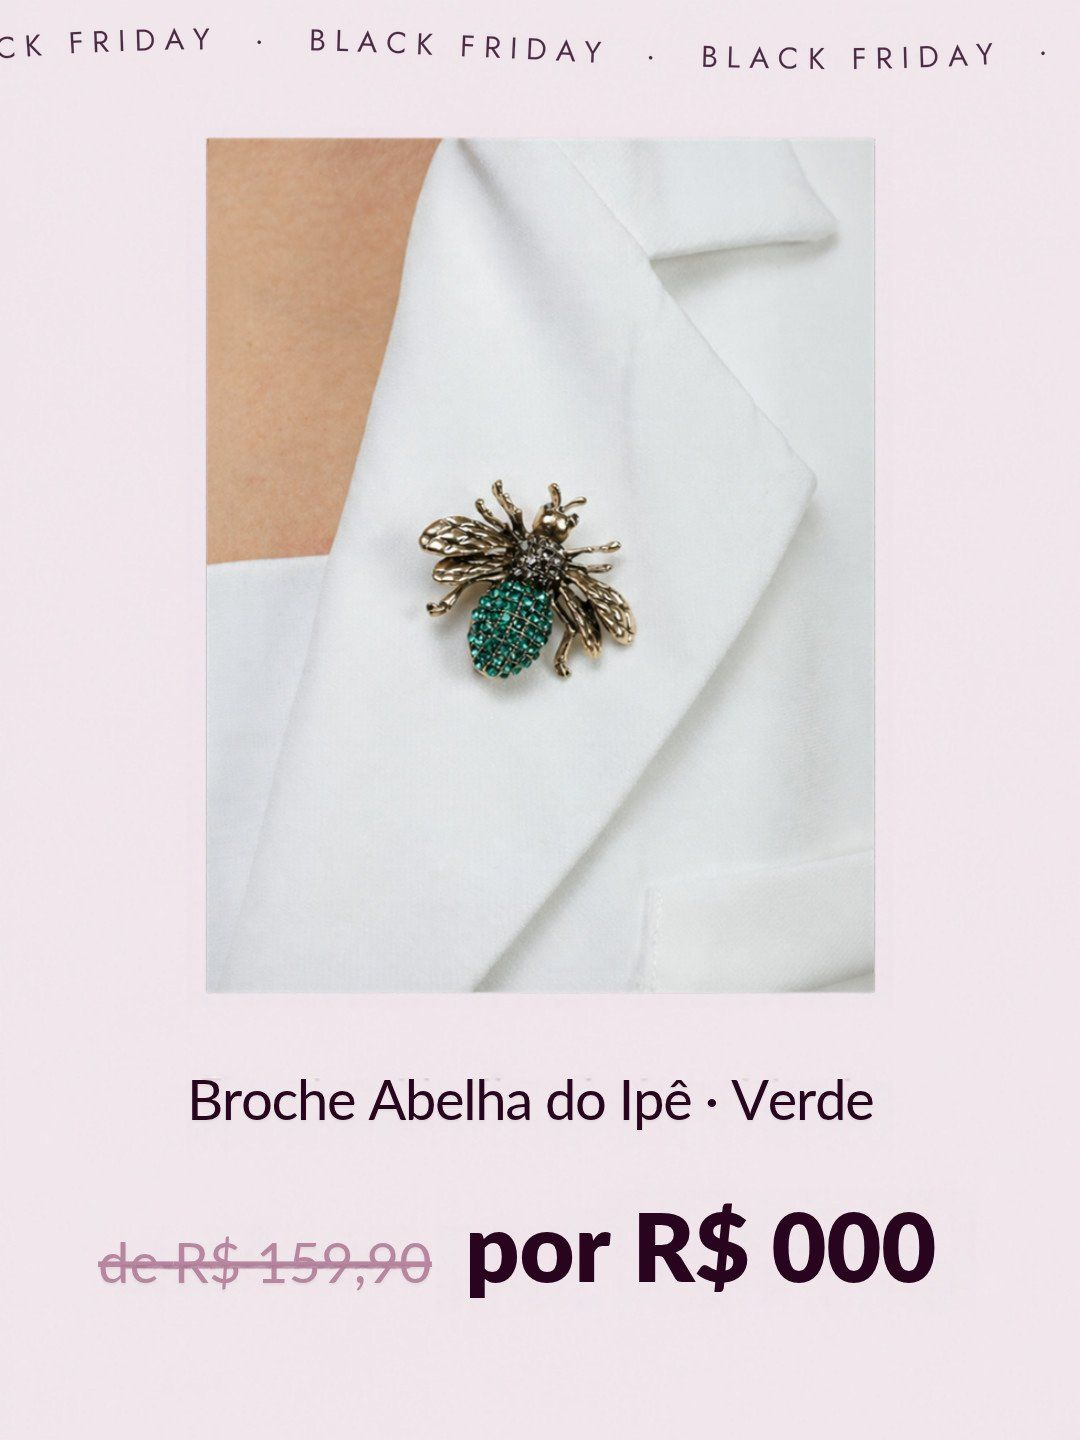
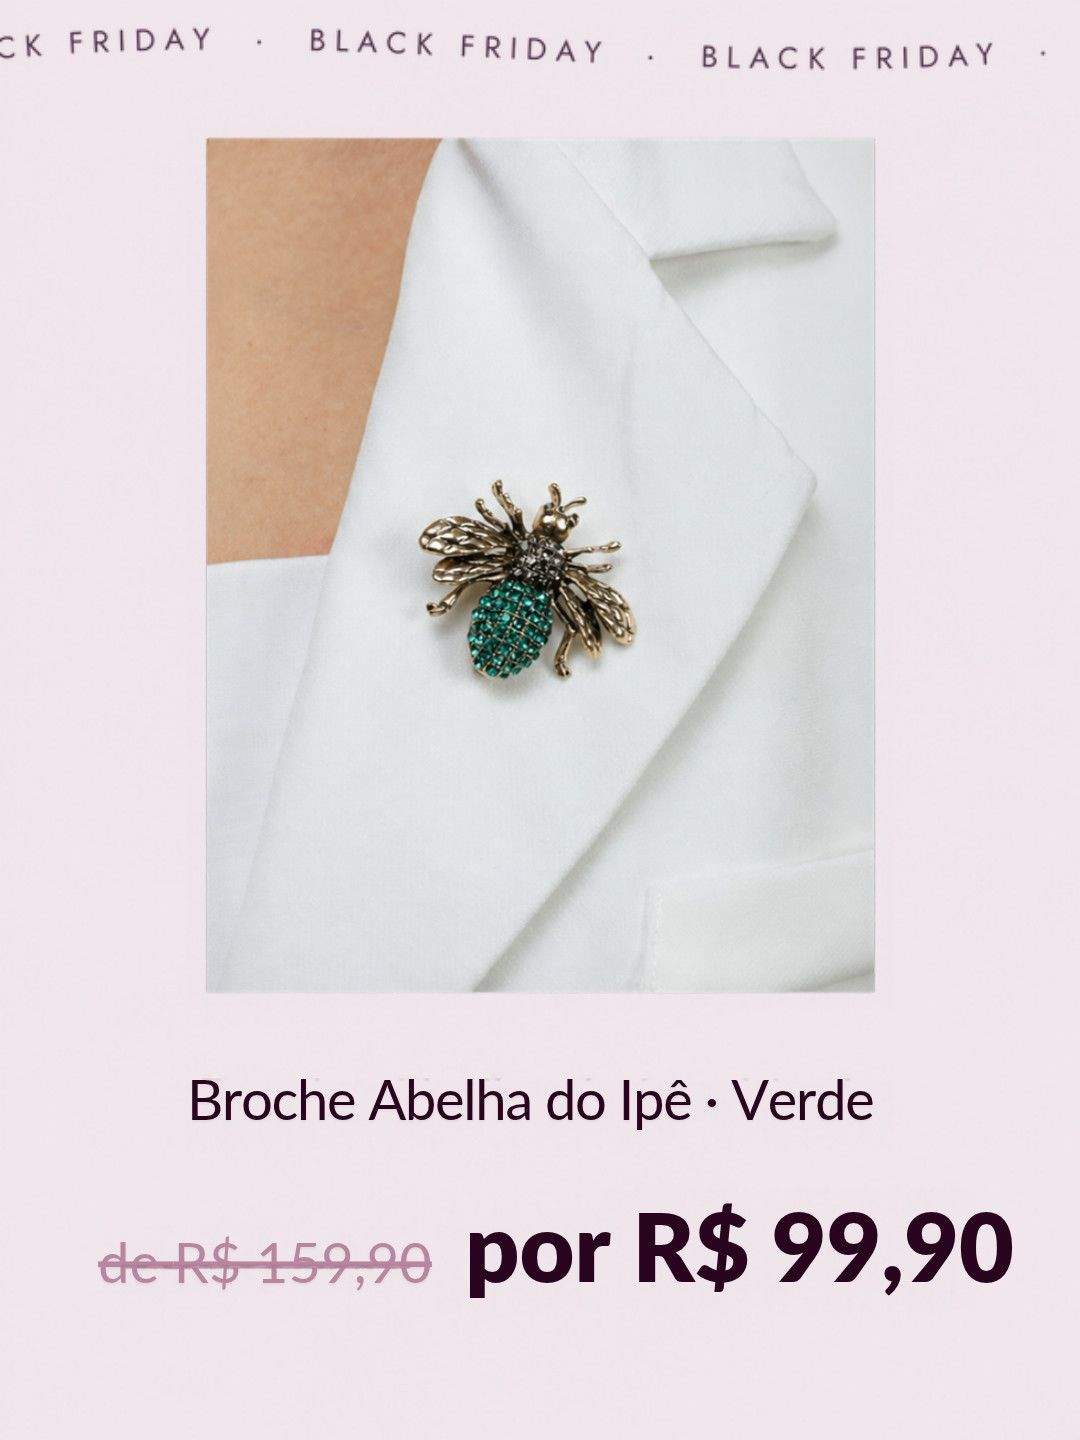
Aprovação Ipê: preços da Black preenchidos
Claude-Session: https://claude.ai/code/session_015euoKZ9BazZFzvmzWMYP3z

diff --git a/aprovacao/ipeacessorios/index.html b/aprovacao/ipeacessorios/index.html
@@ -84,7 +84,7 @@ main{padding:24px 16px}
         <li>No fim, toque em <b>Enviar</b> e mande a mensagem pronta no WhatsApp.</li>
       </ol>
     </div>
-    <p style="font-size:14px;opacity:.85">Os preços <b style="color:var(--manteiga)">"por"</b> aparecem como R$ 000 e entram quando você mandar a lista. Os preços "de" são os do site hoje.</p>
+    <p style="font-size:14px;opacity:.85">Os preços <b style="color:var(--manteiga)">"de" e "por"</b> já estão com a lista que você mandou.</p>
   </div>
 </header>
 
@@ -118,7 +118,7 @@ const pad = (x) => String(x).padStart(2, "0");
 const lista = document.getElementById("lista");
 PECAS.forEach((p, i) => {
   const id = i + 1;
-  const imgs = Array.from({ length: p.n }, (_, k) => `<img src="img/${pad(id)}-${k + 1}.jpg" alt="${p.t}, imagem ${k + 1}" loading="${i < 2 ? "eager" : "lazy"}">`).join("");
+  const imgs = Array.from({ length: p.n }, (_, k) => `<img src="img/${pad(id)}-${k + 1}.jpg?v=2" alt="${p.t}, imagem ${k + 1}" loading="${i < 2 ? "eager" : "lazy"}">`).join("");
   const el = document.createElement("article");
   el.className = "peca"; el.id = "p" + id;
   el.innerHTML = `
